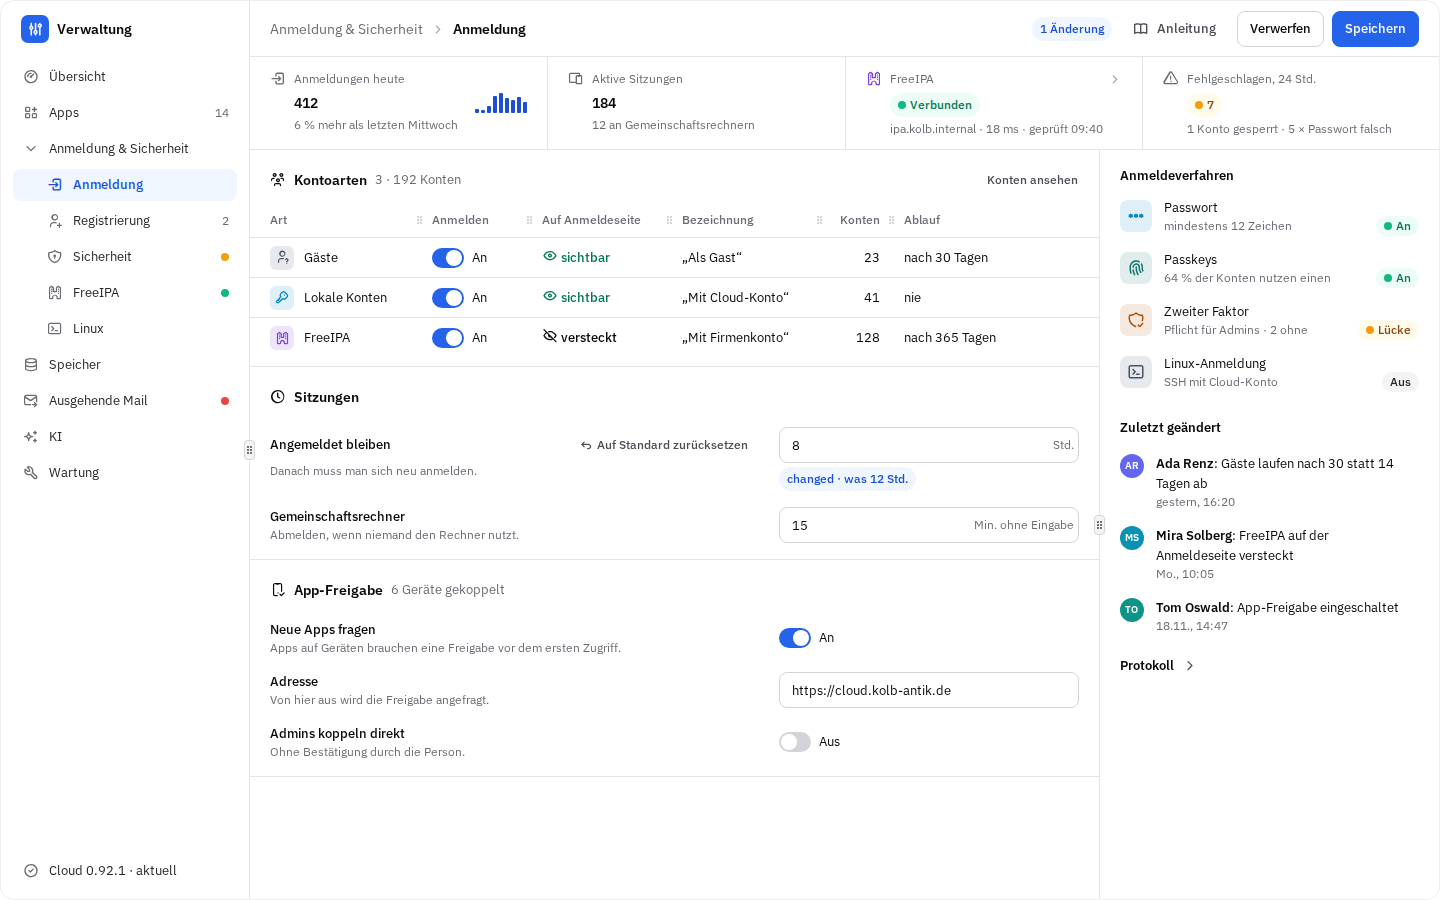
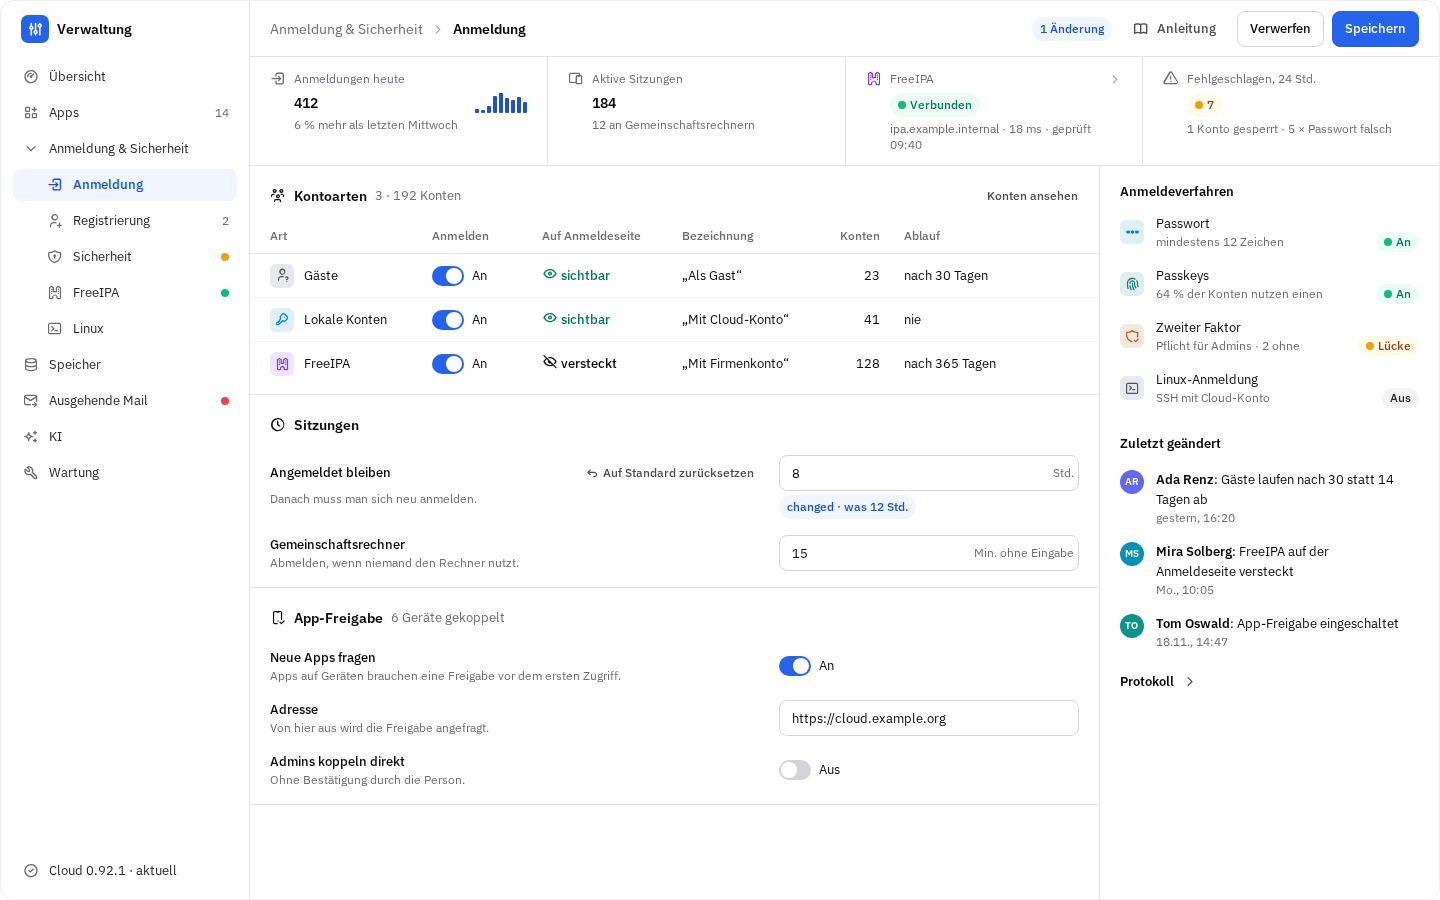
docs(ui): the settings recipe uses example domains, its pictures drawn again

diff --git a/packages/ui/skills/k2b-ui/recipes/settings-page.tsx b/packages/ui/skills/k2b-ui/recipes/settings-page.tsx
@@ -127,7 +127,7 @@ export default function SigninSettings(props: Props) {
             color="#7c3aed"
             label="FreeIPA"
             value={<Chip status="ok">Verbunden</Chip>}
-            meta="ipa.kolb.internal · 18 ms · geprüft 09:40"
+            meta="ipa.example.internal · 18 ms · geprüft 09:40"
             href="#freeipa"
           />
           <Cells.Cell
@@ -191,7 +191,7 @@ export default function SigninSettings(props: Props) {
                 <Check switch label="An" checked />
               </Setting>
               <Setting label="Adresse" hint="Von hier aus wird die Freigabe angefragt.">
-                <Input type="url" value="https://cloud.kolb-antik.de" />
+                <Input type="url" value="https://cloud.example.org" />
               </Setting>
               <Setting label="Admins koppeln direkt" hint="Ohne Bestätigung durch die Person.">
                 <Check switch label="Aus" />
